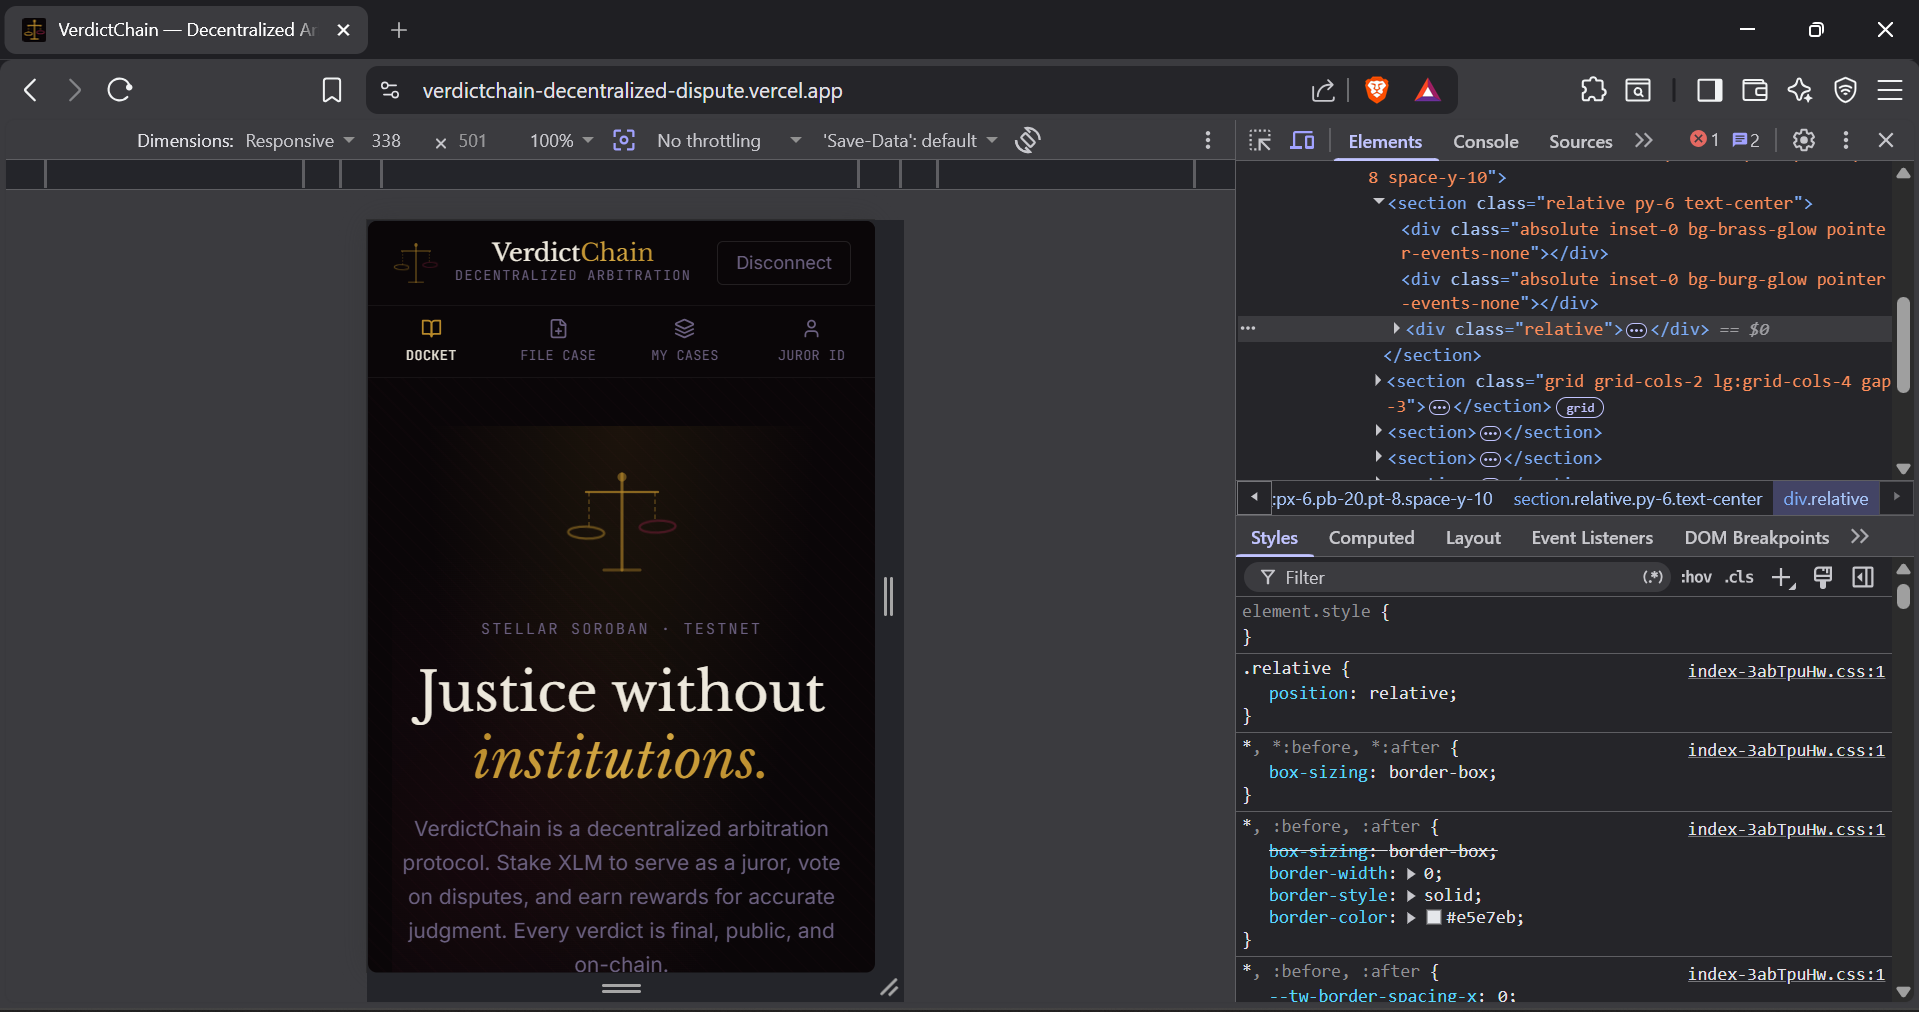
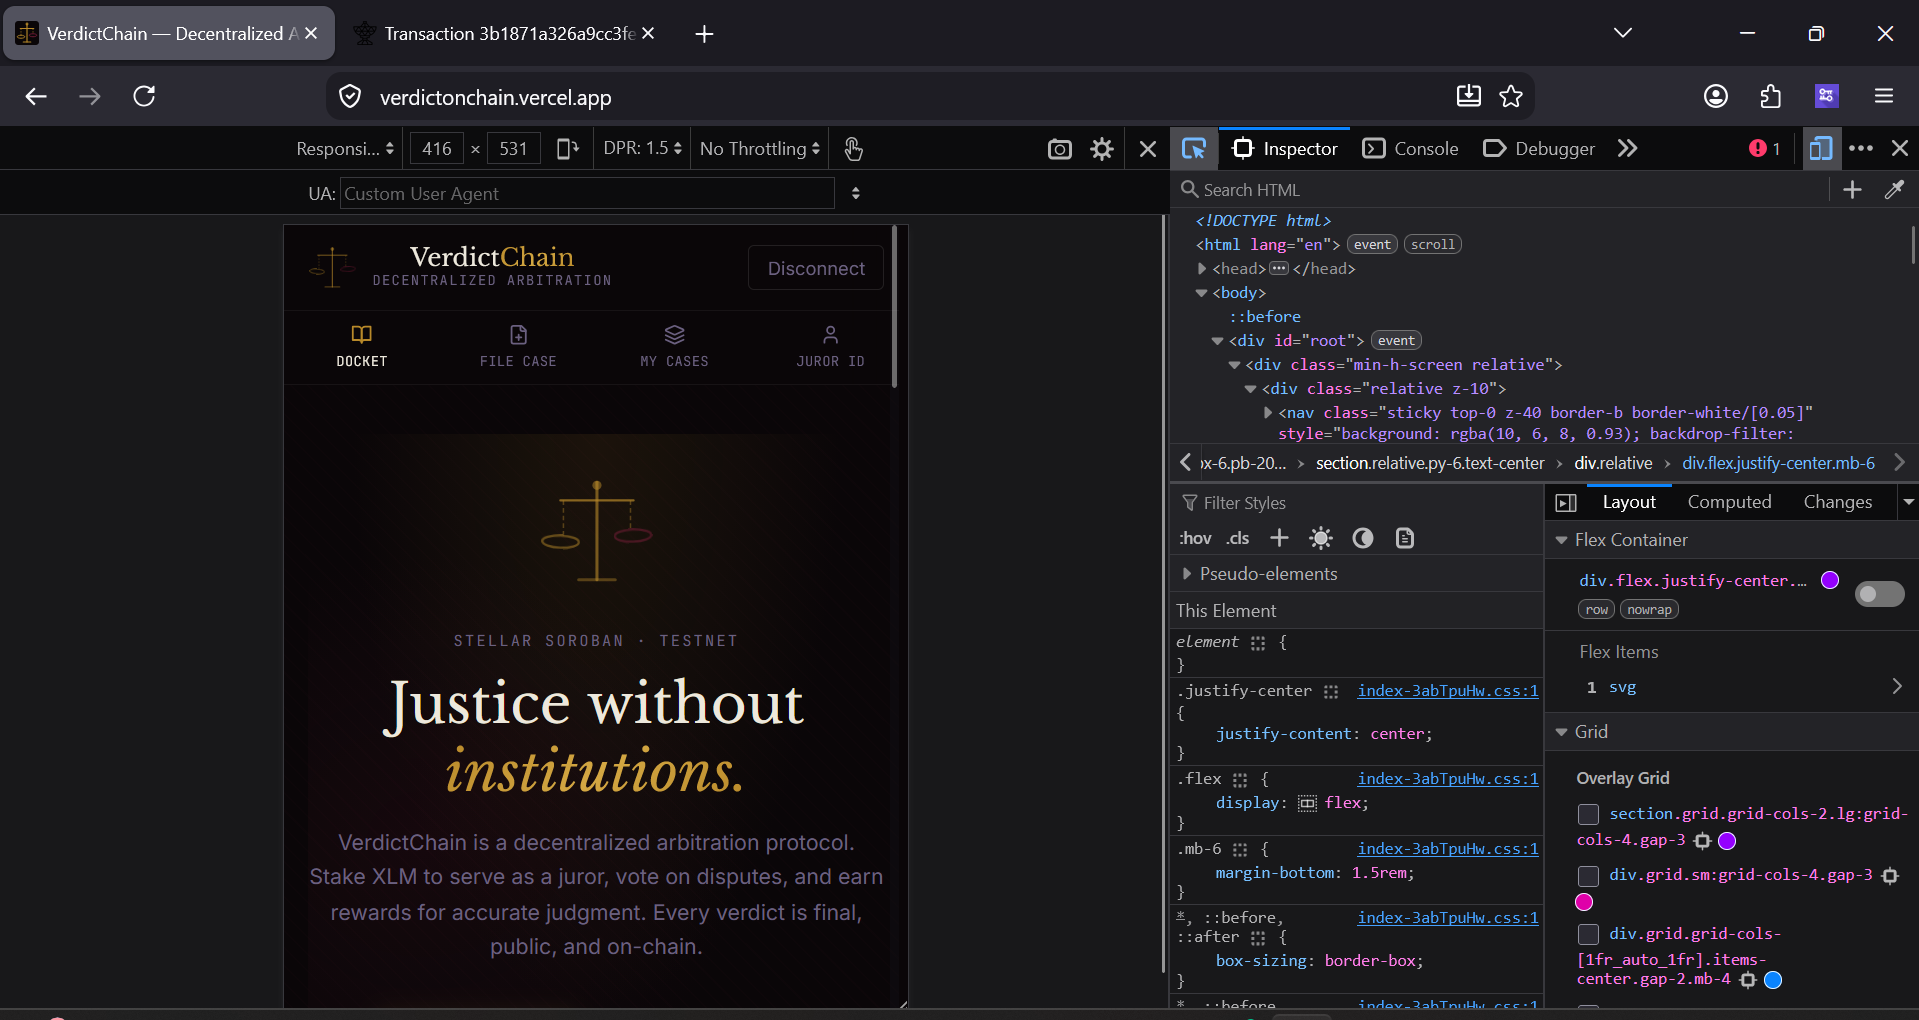
Update README images and add new screenshots

diff --git a/README.md b/README.md
@@ -21,11 +21,11 @@
 
 ## 📸 Screenshots
 
-![VerdictChain Product UI](images/product%20ui.png)
+![VerdictChain Homepage](images/homepage.png)
 
 ![VerdictChain Mobile UI](images/mobile%20ui.png)
 
-![CI/CD Pipeline](images/cic%20cd.png)
+![CI/CD Pipeline](images/ci%20cd.png)
 
 ![Test Output](images/test%20output.png)
 
